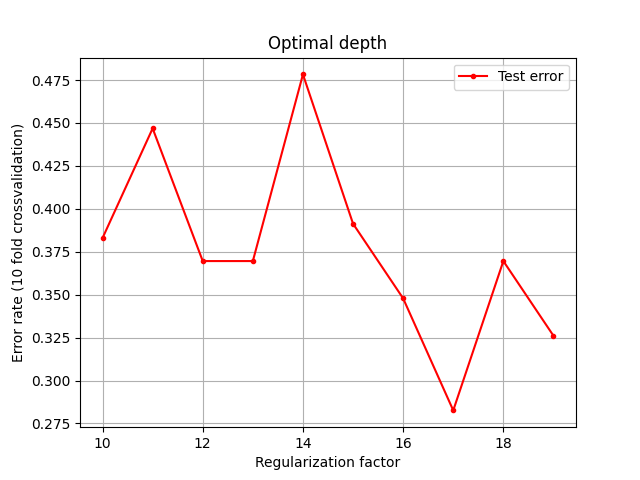
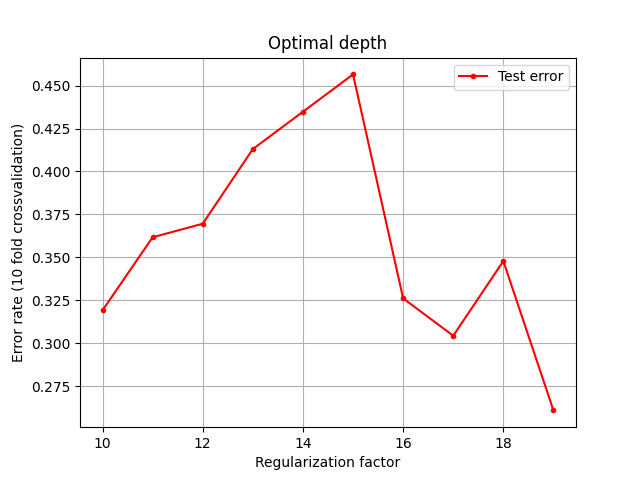
p2

diff --git a/Projekt 2/outerfolder.py b/Projekt 2/outerfolder.py
@@ -27,8 +27,8 @@ yhat_base = []
 y_true_base = []
 
 # Lambda interval 
-lambda_interval = np.logspace(-5, 1, 100)
-
+lambda_interval = np.logspace(-5, 1.5, 10)
+lambda1 = np.concatenate((lambda_interval,lambda_interval,lambda_interval,lambda_interval,lambda_interval,lambda_interval,lambda_interval,lambda_interval,lambda_interval,lambda_interval),axis=0)
 # Depth interval 
 depth_interval = np.arange(10,20,dtype=int)
 depth_1 = np.concatenate((depth_interval,depth_interval,depth_interval,depth_interval,depth_interval,depth_interval,depth_interval,depth_interval,depth_interval,depth_interval),axis=0)
@@ -63,7 +63,7 @@ for j in outerCV.split(X,y):
 
         # Fit classifier - logistic regression.
         dy_log = []
-        lgr = LogisticRegression(penalty='l2',C=1/lambda_interval[i])
+        lgr = LogisticRegression(penalty='l2',C=1/lambda1[i])
         lgr = lgr.fit(X_train_log,y_train)
         y_est_log = lgr.predict(X_test_log)
         dy_log.append(y_est_log)
@@ -88,8 +88,8 @@ for j in outerCV.split(X,y):
         dy_base = []
         y_est_base = np.ones((np.size(y_est_tree))).T
         dy_base.append(y_est_base)
-        print('yestbase',y_est_base)
-        print('ytest',y_test)
+        # print('yestbase',y_est_base)
+        # print('ytest',y_test)
         # Calculate the error
         de_base = np.sum(y_est_base != y_test) / len(y_test)
         print(de_base)
@@ -125,11 +125,11 @@ for j in outerCV.split(X,y):
 yhat_log = np.concatenate(yhat_log)
 #print('yhat:',yhat)
 y_true_log = np.concatenate(y_true_log) 
-print('test-error_log:',test_error_log)
+print('test-error_log:',test_error_log[-10:])
 print('lambda:',lambda_interval)
 min_error_log = np.min(test_error_log)
 opt_lambda_idx = np.argmin(test_error_log)
-opt_lambda = lambda_interval[opt_lambda_idx]
+opt_lambda = lambda1[opt_lambda_idx]
 print('optimal lambda',opt_lambda)
 z_log = y_true_log - yhat_log
 
@@ -137,7 +137,7 @@ z_log = y_true_log - yhat_log
 yhat_tree = np.concatenate(yhat_tree)
 #print('yhat:',yhat)
 y_true_tree = np.concatenate(y_true_tree) 
-print('test-error_tree:',test_error_tree)
+print('test-error_tree:',test_error_tree[-10:])
 print('depth:',depth_interval)
 min_error = np.min(test_error_tree)
 opt_depth_idx = np.argmin(test_error_tree)
@@ -149,7 +149,7 @@ z_tree = y_true_tree - yhat_tree
 yhat_base = np.concatenate(yhat_base)
 #print('yhat:',yhat)
 y_true_base = np.concatenate(y_true_base) 
-print('test-error_base:',test_error_base)
+print('test-error_base:',test_error_base[-10:])
 # min_error = np.min(test_error_tree)
 # opt_depth_idx = np.argmin(test_error_tree)
 # opt_depth = depth_interval[opt_depth_idx]
@@ -159,18 +159,18 @@ z_base = y_true_base - yhat_base
 # Plot log 
 plt.figure(1)
 plt.title('Optimal lambda: 1e{0}'.format(np.log10(opt_lambda)))
-plt.loglog(lambda_interval,test_error_log,'b.-')
+plt.loglog(lambda1[-10:],test_error_log[-10:],'b.-')
+plt.grid()
 plt.xlabel('Regularization factor')
 plt.ylabel('Error rate (10 fold crossvalidation)')
 plt.legend(['Test error'])
-plt.grid()
 plt.savefig('logreg_fold.png')
 plt.show()
 
 # Plot tree
 plt.figure(2)
 plt.title('Optimal depth')
-plt.plot(depth_1,test_error_tree,'r.-')
+plt.plot(depth_1[-10:],test_error_tree[-10:],'r.-')
 plt.xlabel('Regularization factor')
 plt.ylabel('Error rate (10 fold crossvalidation)')
 plt.legend(['Test error'])

diff --git a/Projekt 2/Logistic_regression._reguralizedpy.py b/Projekt 2/Logistic_regression._reguralizedpy.py
@@ -23,12 +23,12 @@ mu = np.mean(X_train, 0)
 sigma = np.std(X_train, 0)
 
 X_train = (X_train - mu) / sigma
-print(X_train)
+# print(X_train)
 X_test = (X_test - mu) / sigma
-print(X_test) 
+# print(X_test) 
 
 # Fit regularized logistic regression model to training data to predict a subject. 
-lambda1 = 0.1 
+lambda1 = 2.4770763559917088e-05
 
 
 mdl = LogisticRegression(penalty='l2', C=1/lambda1 )
@@ -36,9 +36,9 @@ mdl = LogisticRegression(penalty='l2', C=1/lambda1 )
 mdl.fit(X_train, y_train)
 
 y_train_est = mdl.predict(X_train).T
-print(y_train_est)
+# print(y_train_est)
 y_test_est = mdl.predict(X_test).T
-print(y_test_est)
+# print(y_test_est)
     
 train_error_rate = np.sum(y_train_est != y_train) / len(y_train)
 test_error_rate = np.sum(y_test_est != y_test) / len(y_test)
@@ -47,3 +47,27 @@ print('For lambda equals:',lambda1)
 print('The training error:',train_error_rate)
 print('The test error:',test_error_rate)
 
+
+import numpy as np 
+a1 = np.array([1,-1.4,2.6])
+a2 = np.array([1,-0.6,-1.6])
+a3 = np.array([1,2.1,5.0])
+a4 = np.array([1,0.7,3.8])
+w1 = np.array([1.2,-2.1,3.2])
+w2 = np.array([1.2,-1.7,2.9])
+w3 = np.array([1.3,-1.1,2.2])
+print(np.dot(a1,w1))
+
+print(1/(1+np.exp(np.dot(a1,w1))+np.exp(np.dot(a1,w2))+np.exp(np.dot(a1,w3))))
+print(1/(1+np.exp(np.dot(a2,w1))+np.exp(np.dot(a2,w2))+np.exp(np.dot(a2,w3))))
+print(1/(1+np.exp(np.dot(a3,w1))+np.exp(np.dot(a3,w2))+np.exp(np.dot(a3,w3))))
+print(1/(1+np.exp(np.dot(a4,w1))+np.exp(np.dot(a4,w2))+np.exp(np.dot(a4,w3))))
+
+# b = np.ones((10,1))
+# print(b)
+# c = np.ones([10])
+# print(c)
+# d = np.arange(10,21,dtype=int)
+# print(d)
+# d1 = np.concatenate((d,d,d,d,d,d,d,d,d,d),axis=0)
+# print(np.size(d1))

diff --git a/Projekt 2/Accuracy.py b/Projekt 2/Accuracy.py
@@ -1,0 +1,36 @@
+## Accuracy - MCnemerar ## 
+from outerfolder import * 
+from toolbox_02450.statistics import *
+
+# Compute the Jeffrey interval 
+alpha = 0.05
+
+# Logistic regression 
+[thetahatA, CIA] = jeffrey_interval(y_true_log,yhat_log[:,0],alpha=alpha)
+
+# Tree classifier  
+[thetahatB, CIB] = jeffrey_interval(y_true_tree,yhat_tree[:,0],alpha=alpha)
+
+# Baseline
+[thetahatC, CIC] = jeffrey_interval(y_true_base,yhat_base[:,0],alpha=alpha)
+
+print("Theta point estimate A: ", thetahatA, " CI: ", CIA)
+print("Theta point estimate B: ", thetahatB, " CI: ", CIB)
+print("Theta point estimate C: ", thetahatC, " CI: ", CIC)
+
+# Compute the Jeffreys interval
+alpha = 0.05
+
+# Logistic vs tree 
+[thetahat, CI, p] = mcnemar(y_true_log, yhat_log[:,0], yhat_tree[:,0], alpha=alpha)
+
+# Logistic vs base
+[thetahatB, CIB, pB] = mcnemar(y_true_log, yhat_log[:,0], yhat_base[:,0], alpha=alpha)
+
+# Tree vs base 
+[thetahatC, CIC, pC] = mcnemar(y_true_tree, yhat_tree[:,0], yhat_base[:,0], alpha=alpha)
+
+
+print("theta = theta_A-theta_B point estimate", thetahat, " CI: ", CI, "p-value", p)
+print("theta = theta_A-theta_C point estimate", thetahatB, " CI: ", CIB, "p-value", pB)
+print("theta = theta_B-theta_C point estimate", thetahatC, " CI: ", CIC, "p-value", pC)

diff --git a/Projekt 2/logreg_fold.py b/Projekt 2/logreg_fold.py
@@ -12,7 +12,7 @@ from toolbox_02450 import windows_graphviz_call
 from matplotlib.image import imread
 
 CV = model_selection.KFold(n_splits=10)
-
+outerCV = model_selection.KFold(n_splits=10)
 i = 0 
 # Predictions 
 yhat_log = []
@@ -84,7 +84,7 @@ for train_index, test_index in CV.split(X,y):
 
     # Fit classifier - Baseline
     dy_base = []
-    y_est_base = np.ones((np.size(y_est_tree),1))
+    y_est_base = np.ones((np.size(y_est_tree)))
     
     dy_base.append(y_est_base)
     # Calculate the error
@@ -106,7 +106,7 @@ for train_index, test_index in CV.split(X,y):
     y_true_tree.append(y_test) 
     test_error_tree.append(de_tree)
 
-    # Save the estimate tree
+    # Save the estimate base
     dy_base = np.stack(dy_base, axis = 1)
     #print('dy-tree',dy_tree)
     yhat_base.append(dy_base)

diff --git a/Projekt 2/Logistic_regression.py b/Projekt 2/Logistic_regression.py
@@ -42,3 +42,4 @@ legend(['No CHD', 'CHD'])
 ylim(-0.01,1.01)
 
 show()
+
